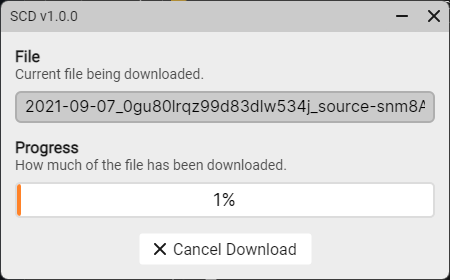
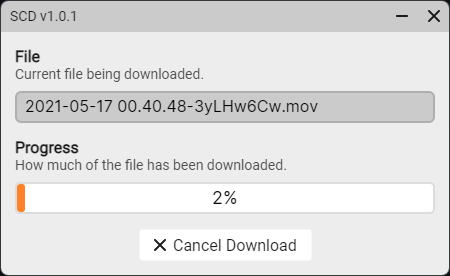
Revision Release v1.0.1 Addition (#4)

diff --git a/src/SCD.Avalonia/Views/MainFormView.axaml.cs b/src/SCD.Avalonia/Views/MainFormView.axaml.cs
@@ -2,16 +2,10 @@ using Avalonia.Controls;
 using Avalonia.Markup.Xaml;
 
 namespace SCD.Avalonia.Views;
+
 public partial class MainFormView : UserControl
 {
-    public MainFormView() 
-    {
-        InitializeComponent();
-
-#if !RELEASE
-        this.AttachDevTools();
-#endif
-    }
+    public MainFormView() => InitializeComponent();
 
     private void InitializeComponent() => AvaloniaXamlLoader.Load(this);
 }

diff --git a/src/SCD.Avalonia/Views/AlertView.axaml.cs b/src/SCD.Avalonia/Views/AlertView.axaml.cs
@@ -2,16 +2,10 @@ using Avalonia.Controls;
 using Avalonia.Markup.Xaml;
 
 namespace SCD.Avalonia.Views;
+
 public partial class AlertView : UserControl
 {
-    public AlertView()
-    {
-        InitializeComponent();
-
-#if !RELEASE
-        this.AttachDevTools();
-#endif
-    }
+    public AlertView() => InitializeComponent();
 
     private void InitializeComponent() => AvaloniaXamlLoader.Load(this);
 }

diff --git a/src/SCD.Avalonia/Views/DownloadFinishedView.axaml.cs b/src/SCD.Avalonia/Views/DownloadFinishedView.axaml.cs
@@ -5,14 +5,7 @@ namespace SCD.Avalonia.Views;
 
 public partial class DownloadFinishedView : UserControl
 {
-    public DownloadFinishedView()
-    { 
-        InitializeComponent();
-
-#if !RELEASE
-        this.AttachDevTools();
-#endif
-    }
+    public DownloadFinishedView() => InitializeComponent();
 
     private void InitializeComponent() => AvaloniaXamlLoader.Load(this);
 }

diff --git a/src/SCD.Avalonia/Views/DownloadingView.axaml.cs b/src/SCD.Avalonia/Views/DownloadingView.axaml.cs
@@ -5,14 +5,7 @@ namespace SCD.Avalonia.Views;
 
 public partial class DownloadingView : UserControl
 {
-    public DownloadingView() 
-    {
-        InitializeComponent();
-
-#if !RELEASE
-        this.AttachDevTools();
-#endif
-    }
+    public DownloadingView() => InitializeComponent();
 
     private void InitializeComponent() => AvaloniaXamlLoader.Load(this);
 }

diff --git a/src/SCD.Avalonia/Views/TitleBarView.axaml.cs b/src/SCD.Avalonia/Views/TitleBarView.axaml.cs
@@ -5,14 +5,7 @@ namespace SCD.Avalonia.Views;
 
 public partial class TitleBarView : UserControl
 {
-    public TitleBarView() 
-    {
-        InitializeComponent();
-
-#if !RELEASE
-        this.AttachDevTools();
-#endif
-    }
+    public TitleBarView() => InitializeComponent();
 
     private void InitializeComponent() => AvaloniaXamlLoader.Load(this);
 }
